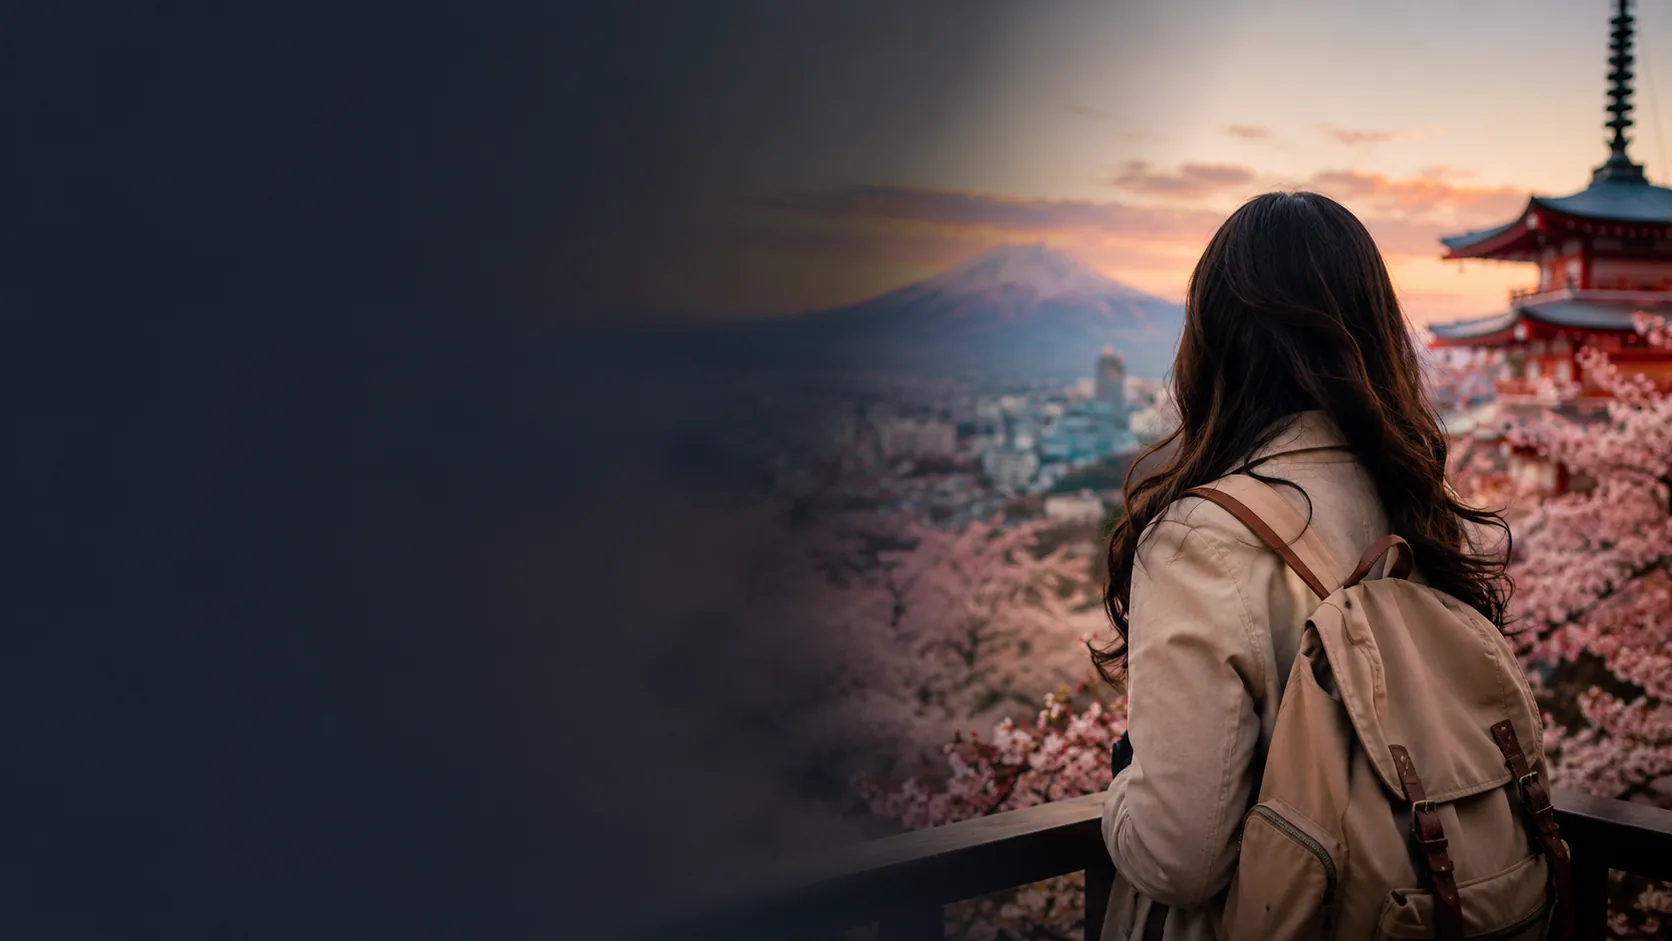
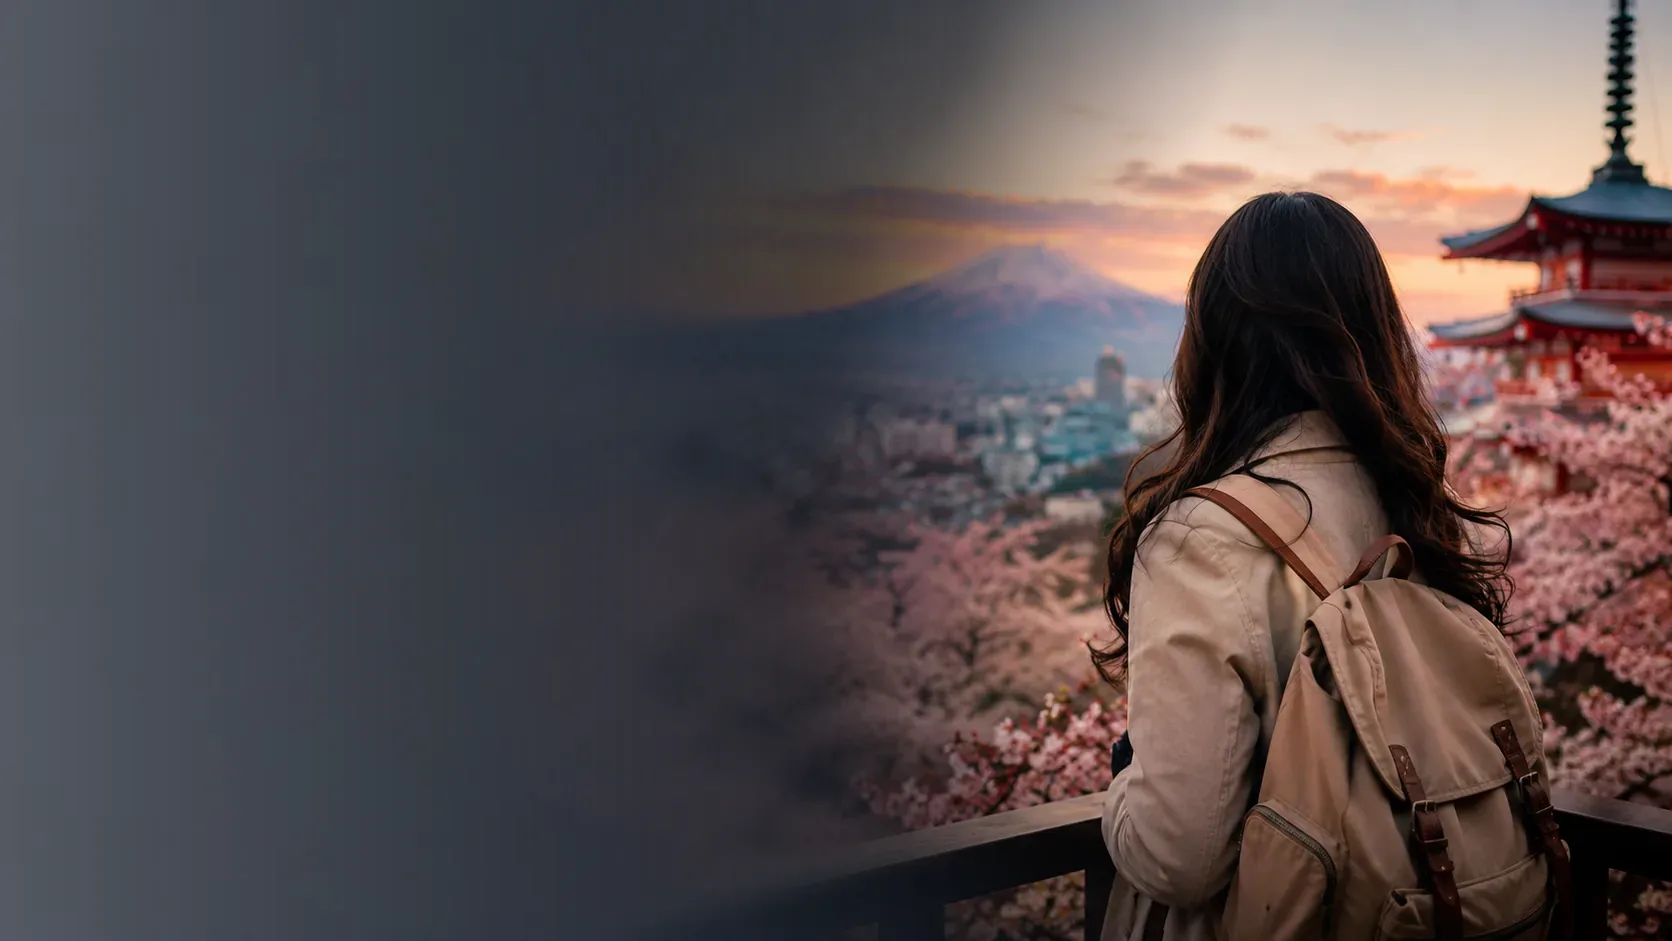
Clareia gradiente embutido na foto do hero da Working Holiday
A foto hero-working-holiday.webp tinha um gradiente escuro já "de fábrica" (não era só CSS). Aplica um ajuste de "levantamento de sombra" na imagem pra revelar mais da foto por trás, mantendo contraste de texto adequado. Atualiza todas as referências da imagem (og:image, twitter:image, JSON-LD, preload, background) para hero-working-holiday.webp?v=2, forçando o Facebook e navegadores a buscarem a versão nova em vez da cacheada.

Changed region(s): [[0.0, 0.0, 0.311, 1.0]]

diff --git a/working-holiday-japao.html b/working-holiday-japao.html
@@ -22,7 +22,7 @@
         crossorigin="anonymous"></script>
 <link rel="icon" href="favicon.svg" type="image/svg+xml">
 <link rel="preload" href="inter-variable.woff2" as="font" type="font/woff2" crossorigin>
-<link rel="preload" href="img/hero-working-holiday.webp" as="image" fetchpriority="high">
+<link rel="preload" href="img/hero-working-holiday.webp?v=2" as="image" fetchpriority="high">
 <link rel="stylesheet" href="style.css?v=2026-08-12">
 
 <meta property="og:type" content="article">
@@ -31,17 +31,17 @@
 <meta property="og:title" content="Working Holiday Japão-Brasil: o novo visto para jovens brasileiros">
 <meta property="og:description" content="Jovens de 18 a 30 anos poderão ficar até 1 ano no Japão, trabalhar e estudar com o novo visto gratuito. Vigência prevista: 1º de dezembro de 2026.">
 <meta property="og:url" content="https://financasnojapao.com/working-holiday-japao.html">
-<meta property="og:image" content="https://financasnojapao.com/img/hero-working-holiday.webp">
+<meta property="og:image" content="https://financasnojapao.com/img/hero-working-holiday.webp?v=2">
 <meta property="og:image:width" content="1672">
 <meta property="og:image:height" content="941">
 <meta property="og:image:alt" content="Jovem viajante de mochila observando o Monte Fuji e um templo entre cerejeiras, ilustrando o Working Holiday Japão-Brasil">
 <meta property="article:published_time" content="2026-08-12T19:00:00+09:00">
-<meta property="article:modified_time" content="2026-08-12T20:00:00+09:00">
+<meta property="article:modified_time" content="2026-08-12T21:00:00+09:00">
 <meta property="article:section" content="Vistos e Imigração">
 <meta name="twitter:card" content="summary_large_image">
 <meta name="twitter:title" content="Working Holiday Japão-Brasil: o novo visto para jovens brasileiros">
 <meta name="twitter:description" content="Acordo assinado em 24/07/2026, vigência prevista pra 1º/12/2026. Veja requisitos, prazos e o que ainda falta ser divulgado.">
-<meta name="twitter:image" content="https://financasnojapao.com/img/hero-working-holiday.webp">
+<meta name="twitter:image" content="https://financasnojapao.com/img/hero-working-holiday.webp?v=2">
 
 <script type="application/ld+json">
 {
@@ -49,7 +49,7 @@
   "@type": "Article",
   "headline": "Working Holiday Japão-Brasil: o que se sabe sobre o novo visto para jovens brasileiros",
   "description": "Guia em português sobre o novo acordo de Working Holiday entre Brasil e Japão: quem pode pedir, prazos, requisitos e o que ainda não foi divulgado pela Embaixada do Japão no Brasil.",
-  "image": { "@type": "ImageObject", "url": "https://financasnojapao.com/img/hero-working-holiday.webp", "width": 1672, "height": 941 },
+  "image": { "@type": "ImageObject", "url": "https://financasnojapao.com/img/hero-working-holiday.webp?v=2", "width": 1672, "height": 941 },
   "author": { "@type": "Person", "name": "Lian Alves", "url": "https://financasnojapao.com/sobre.html" },
   "publisher": {
     "@type": "Organization",
@@ -58,7 +58,7 @@
     "logo": { "@type": "ImageObject", "url": "https://financasnojapao.com/favicon.svg" }
   },
   "datePublished": "2026-08-12T19:00:00+09:00",
-  "dateModified": "2026-08-12T20:00:00+09:00",
+  "dateModified": "2026-08-12T21:00:00+09:00",
   "mainEntityOfPage": { "@type": "WebPage", "@id": "https://financasnojapao.com/working-holiday-japao.html" },
   "articleSection": "Vistos e Imigração",
   "wordCount": 1673,
@@ -214,7 +214,7 @@
   <div class="container section">
     <p class="breadcrumb"><a href="/">Início</a> / Working Holiday no Japão</p>
 
-    <div class="holerite-hero holerite-hero--foto holerite-hero--foto-clara" style="background-image:url('img/hero-working-holiday.webp')">
+    <div class="holerite-hero holerite-hero--foto holerite-hero--foto-clara" style="background-image:url('img/hero-working-holiday.webp?v=2')">
       <div class="holerite-hero-texto">
         <p class="categoria-etiqueta">Vistos e imigração</p>
         <h1>Working Holiday Japão-Brasil: o novo visto para jovens brasileiros</h1>
